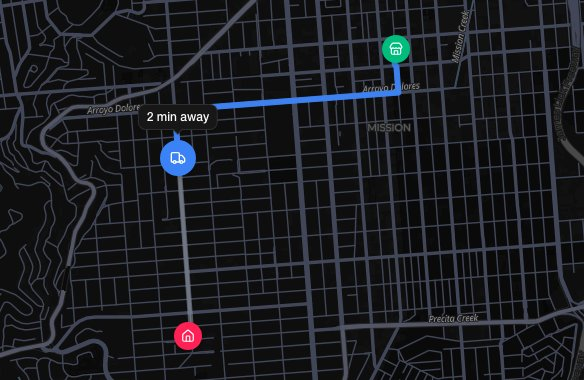
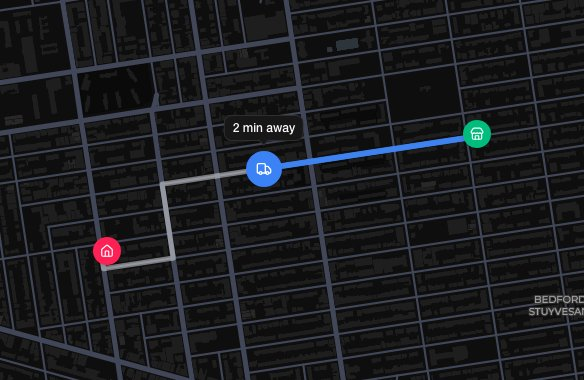
feat(blocks): move delivery tracker to Brooklyn
- delivery-tracker: Bed-Stuy route so buildings render at the fitted
  zoom, progress 0.45, order-independent bounds, truck centered on the
  route, lighter remaining route in dark mode
- thumbnails: keep the delivery tile above zoom 14
- home: drop the dot grid behind the map wall

diff --git a/src/registry/blocks/delivery-tracker/data.ts b/src/registry/blocks/delivery-tracker/data.ts
@@ -17,14 +17,14 @@ export const deliveryMeals: DeliveryMeal[] = [
 ];
 
 /** Pickup (origin) and dropoff (destination) coordinates. */
-export const pickup = { lng: -122.4185, lat: 37.7645 };
-export const dropoff = { lng: -122.434, lat: 37.7475 };
+export const pickup = { lng: -73.9445, lat: 40.6885 };
+export const dropoff = { lng: -73.959, lat: 40.685 };
 
 /** Initial map viewport, fitted around pickup and dropoff. */
 export const mapView = {
   bounds: [
-    [dropoff.lng, dropoff.lat],
-    [pickup.lng, pickup.lat],
+    [Math.min(pickup.lng, dropoff.lng), Math.min(pickup.lat, dropoff.lat)],
+    [Math.max(pickup.lng, dropoff.lng), Math.max(pickup.lat, dropoff.lat)],
   ] as [[number, number], [number, number]],
   padding: 72,
   minZoom: 12,
@@ -32,7 +32,7 @@ export const mapView = {
 };
 
 /** Fraction of the route the courier has already covered (0–1). */
-export const progressFraction = 0.62;
+export const progressFraction = 0.45;
 
 /**
  * OSRM demo routing endpoint. Swap in your own routing service by returning a
@@ -55,6 +55,6 @@ export const routeStyle = {
   remaining: {
     width: 5.2,
     opacity: 0.5,
-    color: { light: "#6b7280", dark: "#9ca3af" },
+    color: { light: "#6b7280", dark: "#e5e7eb" },
   },
 } as const;

diff --git a/src/app/(main)/(home)/page.tsx b/src/app/(main)/(home)/page.tsx
@@ -55,7 +55,6 @@ export default function Page() {
           }
         >
           <div className="relative h-[34rem] overflow-hidden mask-b-from-65% max-md:mask-r-from-85% max-md:mask-l-from-85% md:h-[44rem] lg:h-[clamp(52rem,calc(100svh-28.5rem),90rem)]">
-            <div className="absolute inset-0 [background-image:radial-gradient(var(--color-border)_1px,transparent_0)] mask-t-from-0% [background-size:24px_24px]" />
             <MapWall className="pt-6" />
           </div>
 

diff --git a/src/registry/blocks/delivery-tracker/page.tsx b/src/registry/blocks/delivery-tracker/page.tsx
@@ -187,7 +187,7 @@ export default function Page() {
                 opacity={routeStyle.progress.opacity}
               />
 
-              <RouteMarker at="progress" offset={[0, 10]}>
+              <RouteMarker at="progress">
                 <MarkerContent>
                   <div
                     className="relative grid size-9 place-items-center rounded-full shadow-md"

diff --git a/scripts/capture-block-thumbnails.ts b/scripts/capture-block-thumbnails.ts
@@ -49,7 +49,7 @@ const showcaseMaps: ShowcaseMap[] = [
   {
     name: "delivery-tracker",
     path: "/view/delivery-tracker",
-    zoom: -0.55,
+    zoom: -0.25,
     trim: [90, 95],
   },
   { name: "uptime-monitor", path: "/view/uptime-monitor", trim: [25, 65] },
